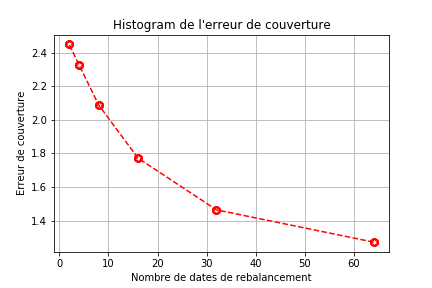
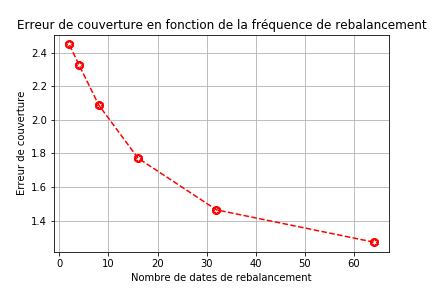
debugging simul_market

Changed region(s): [[0.0301, 0.0625, 0.9931, 0.125]]

diff --git a/Pricer/Hedge.cpp b/Pricer/Hedge.cpp
@@ -22,13 +22,15 @@ void Hedge::PnL(PnlMat *path, int n_time_steps, int H, PnlVect *portfolio_values
 	int M = path->m - 1;
     int step = int(M/H);
 	mc_->mod_->getPast(past, path, 0, n_time_steps, T); // filling the past matrix with the discrete instants preceding t and t spots
-	mc_->price_and_delta(past, 0, prix, ic_prix, delta_prev, ic_delta);
+	mc_->price(prix, ic_prix);
+	mc_->delta(past, 0, delta_prev, ic_delta);
 	pnl_vect_set(option_prices, 0, prix);
 	pnl_vect_set(portfolio_values, 0, prix);
 	for (int i = 1; i < H; i++)
 	{
 		path_index = i * step;
 		t = i * T / H;
+		std::cout << "delta "<< GET(delta_prev,0) << std::endl;
 		delta_prev = rebalance(path, path_index, i, t, n_time_steps, H, T, option_prices, portfolio_values, delta_prev);
     }
 
@@ -50,53 +52,6 @@ void Hedge::PnL(PnlMat *path, int n_time_steps, int H, PnlVect *portfolio_values
 	pnl_vect_free(&spots);
 }
 
-void Hedge::PnL(PnlMat *path, int n_time_steps, double H, PnlVect *portfolio_values, PnlVect* option_prices, double& error) {
-	int size = mc_->opt_->size_;
-	double r = mc_->mod_->r_;
-	double T = mc_->opt_->T_;
-	double prix = 0;
-	double ic_prix = 0;
-	pnl_vect_resize(portfolio_values, H + 1);
-	pnl_vect_resize(option_prices, H + 1);
-	PnlMat *past = pnl_mat_create(1, 1);;
-	PnlVect *delta_prev = pnl_vect_create_from_scalar(size, 0);
-	PnlVect *ic_delta = pnl_vect_create(size);
-	int path_index = 0;
-	int hedging_index;
-	double t = 0;
-	int M = path->m - 1;
-	int step = int(M / H);
-	mc_->mod_->getPast(past, path, 0, n_time_steps, T); // filling the past matrix with the discrete instants preceding t and t spots
-	mc_->price_and_delta(past, 0, prix, ic_prix, delta_prev, ic_delta);
-	pnl_vect_set(option_prices, 0, prix);
-	pnl_vect_set(portfolio_values, 0, prix);
-	for (int i = 1; i < H; i++)
-	{
-		path_index = i * step;
-		t = i * T / H;
-		delta_prev = rebalance(path, path_index, i, t, n_time_steps, H, T, option_prices, portfolio_values, delta_prev);
-	}
-
-	pnl_vect_set(option_prices, H, mc_->opt_->payoff(path));
-	PnlVect * prev_spots = pnl_vect_create(size);
-	PnlVect * spots = pnl_vect_create(size);
-	pnl_mat_get_row(prev_spots, path, M - M / H);
-	double riskless_part = pnl_vect_get(portfolio_values, H - 1) - pnl_vect_scalar_prod(delta_prev, prev_spots) * exp(r * T / H);
-	// (V_{i-1} - delta_{i-1} * S_{i-1}) * e^(t_i - t_{i-1})
-	pnl_mat_get_row(spots, path, M);
-	double risky_part = pnl_vect_scalar_prod(delta_prev, spots);
-	double portfolio_price = risky_part + riskless_part;
-	pnl_vect_set(portfolio_values, H, portfolio_price);
-	error = pnl_vect_get(portfolio_values, H) - pnl_vect_get(option_prices, H);
-	pnl_mat_free(&past);
-	pnl_vect_free(&delta_prev);
-	pnl_vect_free(&ic_delta);
-	pnl_vect_free(&prev_spots);
-	pnl_vect_free(&spots);
-}
-
-
-
 void Hedge::PnL(PnlMat *path, double N, PnlVect *portfolio_values, PnlVect* option_prices, double& error, double ic0) {
 	int size = mc_->opt_->size_;
 	double r = mc_->mod_->r_;
@@ -105,8 +60,8 @@ void Hedge::PnL(PnlMat *path, double N, PnlVect *portfolio_values, PnlVect* opti
 	double prix;
 	double ic_prix;
 	double capitalised_t_i;
-	PnlMat *past = pnl_mat_create(1,1);
-	PnlVect *spots_at_t = pnl_vect_create(1);
+	PnlMat *past;
+	PnlVect *spots_at_t = pnl_vect_create(size);
 	PnlVect *delta = pnl_vect_create_from_scalar(size, 0);
 	PnlVect *delta_prev = pnl_vect_create_from_scalar(size, 0);
 	PnlVect *delta_difference = pnl_vect_create_from_scalar(size, 0);
@@ -118,7 +73,15 @@ void Hedge::PnL(PnlMat *path, double N, PnlVect *portfolio_values, PnlVect* opti
 
 	for (int t = 0; t <= N - 1; t++) {
 
-		mc_->mod_->getPast(past, path, t * T/(N-1), N - 1, T);
+		past = pnl_mat_create(t + 1, size);
+
+		spots_at_t = pnl_vect_create(size);
+		pnl_mat_get_row(spots_at_t, path, t * step); //get spots at t*H/(N-1)
+		//fill past with appropriate market values
+		for (int factor = 0; factor <= t; factor++) {
+			pnl_mat_get_row(tmpVect, path, factor * H / (N - 1));
+			pnl_mat_set_row(past, tmpVect, factor);
+		}
 		mc_->price_and_delta(past, t * T / (N - 1), prix, ic_prix, delta, ic_delta);
 		pnl_vect_set(option_prices, t *step, prix);
 		if (t == 0) {
@@ -142,6 +105,7 @@ void Hedge::PnL(PnlMat *path, double N, PnlVect *portfolio_values, PnlVect* opti
 			pnl_mat_get_row(spots_at_t, path, t * step + i); //get spots at t*H/(N-1) + i
 
 			if (i == 1) {
+				pnl_mat_free(&past);
 				past = pnl_mat_create(t + 2, size);
 				//start filling past with market data
 				for (int factor = 0; factor <= t; factor++) {
@@ -170,8 +134,9 @@ void Hedge::PnL(PnlMat *path, double N, PnlVect *portfolio_values, PnlVect* opti
 	}
 
 
-	error = pnl_vect_get(risk_free_part, H) + pnl_vect_scalar_prod(delta, spots_at_t) - mc_->opt_->payoff(past);
+	error = pnl_vect_get(risk_free_part, H) + pnl_vect_scalar_prod(delta, spots_at_t) - mc_->opt_->payoff(path);
 }
+
 
 
 PnlVect* Hedge::rebalance(PnlMat* path, int path_index, int hedging_index, double t, int n_time_steps, int H, double T, PnlVect* option_prices, PnlVect* portfolio_values, PnlVect *delta_prev)

diff --git a/PricerValidation/CallValidation.cpp b/PricerValidation/CallValidation.cpp
@@ -9,7 +9,7 @@ void validate_call(PnlRng* rng) {
 	PnlVect *spot = pnl_vect_create_from_scalar(1, spot_);
 	PnlVect *sigma = pnl_vect_create_from_scalar(1, sigma_);
 	PnlVect *trend = pnl_vect_create_from_scalar(1, r);
-	double T = 0.1;
+	double T = 1.0;
 	double strike = 100;
 	BlackScholesModel* model = new BlackScholesModel(1, r, 0, sigma, spot, trend);
 	int n_time_steps = 1;
@@ -21,7 +21,7 @@ void validate_call(PnlRng* rng) {
 	double gamma = -1.0 / 4.0;
 	double epsilon_n = epsilon * pow(n_samples, -gamma);
 	MonteCarlo* mc = new MonteCarlo(model, call, rng, T / n_time_steps, n_samples, epsilon_n);
-	int M = 64;
+	int M = 365;
 	int H = M;
 	int n_scenarios = 100;
 	PnlMat* simulated_path = pnl_mat_create(1, 1);
@@ -95,12 +95,14 @@ void validate_delta_call(PnlMat* simulated_path, MonteCarlo* mc, BlackScholesMod
 	int count = 0;
 	int M = simulated_path->m - 1;
 	myfile << " Validation delta " << std::endl;
+	pnl_mat_print(simulated_path);  std::cout << std::endl;
 	for (double i = 0.0; i < (double)M; i++)
 	{
 		t = T * i / (double)M;
 		model->getPast(past, simulated_path, t, n_time_steps, T);
 		spot_at_t = MGET(simulated_path, (int)i, 0);
 		delta_ferme = call->delta(t, spot_at_t, r, sigma_, T, strike);
+		pnl_mat_print(past); std::cout << std::endl;
 		mc->delta(past, t, delta, ic_delta);
 		delta_ = pnl_vect_get(delta, 0);
 		ic_delta_ = pnl_vect_get(ic_delta, 0);
@@ -142,10 +144,21 @@ void validate_hedging_frequency_call(MonteCarlo* mc, BlackScholesModel* model, P
 	myfile.open("../Validation/variation_frequence_call.txt");
 	PnlVect* option_values = pnl_vect_create(1);
 	PnlVect* portfolio_values = pnl_vect_create(1);
-	for (int H = M; H >= 2; H /= 2) {
-		hedge.PnL(simulated_path, n_time_steps, H, portfolio_values, option_values, error);
-		myfile << H << ";" << error << std::endl;
-	}
+	int H = M;
+	pnl_mat_print(simulated_path);
+	std::cout << std::endl;
+	hedge.PnL(simulated_path, n_time_steps, H, portfolio_values, option_values, error);
+	double ic0 = 0;
+	//hedge.PnL(simulated_path, n_time_steps+1, portfolio_values, option_values, error, ic0);
+	PnlMat* comparaison = pnl_mat_create(H + 1, 2);
+	pnl_mat_set_col(comparaison, portfolio_values, 0);
+	pnl_mat_set_col(comparaison, option_values, 1);
+	pnl_mat_print(comparaison);
+
+	//for (int H = M; H >= 2; H /= 2) {
+	//	hedge.PnL(simulated_path, n_time_steps, H, portfolio_values, option_values, error);
+	//	myfile << H << ";" << error << std::endl;
+	//}
 	myfile.close();
 	pnl_mat_free(&simulated_path);
 	pnl_mat_free(&past);

diff --git a/Pricer/MonteCarlo.cpp b/Pricer/MonteCarlo.cpp
@@ -5,6 +5,7 @@
 #include "MonteCarlo.hpp"
 #include <cmath>
 #include <iostream>
+#include <typeinfo>
 
 MonteCarlo::~MonteCarlo() {
     delete mod_;
@@ -35,6 +36,12 @@ void MonteCarlo::price(double &prix, double &ic) {
 }
 
 void MonteCarlo::price(const PnlMat *past, double t, double &prix, double &ic) {
+	if (opt_->type_ == call) {
+		VanillaCall* call = dynamic_cast<VanillaCall*> (opt_);
+		double spot = MGET(past, past->m - 1, 0);
+		prix = call->price(t, spot, mod_->r_, GET(mod_->sigma_,0), opt_->T_, call->strike_);
+		return;
+	}
 
     PnlMat* path =  pnl_mat_create (opt_->nbTimeSteps_ + 1, opt_->size_);
     double payoffs_squared = 0;
@@ -56,6 +63,14 @@ void MonteCarlo::price(const PnlMat *past, double t, double &prix, double &ic) {
 
 
 void MonteCarlo::delta(const PnlMat *past, double t, PnlVect *delta, PnlVect *ic){
+	if (opt_->type_ == call) {
+		VanillaCall* call = dynamic_cast<VanillaCall*> (opt_);
+		double spot = MGET(past, past->m - 1, 0);
+		double delta_ = call->delta(t, spot, mod_->r_, GET(mod_->sigma_, 0), opt_->T_, call->strike_);
+		pnl_vect_set(delta, 0, delta_);
+		return;
+	}
+
 	PnlMat* path =  pnl_mat_create (opt_->nbTimeSteps_ + 1, opt_->size_); //creation path, matrice ou on simule
     double timestep = opt_->T_/opt_->nbTimeSteps_; //pas de discretisation
     PnlMat* shifted_pathp =  pnl_mat_create (opt_->nbTimeSteps_ + 1, opt_->size_);

diff --git a/Pricer/BlackScholesModel.cpp b/Pricer/BlackScholesModel.cpp
@@ -209,9 +209,9 @@ void BlackScholesModel::simul_market(PnlMat *path, double T, int M, PnlRng *rng)
 		pnl_mat_get_row(Ld, corr, d);
 		for (int i = 1; i < M+1; i++) {
 			pnl_mat_get_row(Gi, G, i - 1);
-			expo = pnl_expm1((GET(trend_, d) - pnl_pow_i(GET(sigma_, d), 2) / 2)  * i * timeSpan +
-				GET(sigma_, d) * sqrt(timeSpan) * pnl_vect_scalar_prod(Ld, Gi)) + 1;
-			pnl_mat_set(path, i, d, pnl_mat_get(path, 0, d) * expo);
+			expo = exp((GET(trend_, d) - pnl_pow_i(GET(sigma_, d), 2) / 2)  * timeSpan +
+				GET(sigma_, d) * sqrt(timeSpan) * pnl_vect_scalar_prod(Ld, Gi));
+			pnl_mat_set(path, i, d, pnl_mat_get(path, i-1, d) * expo);
 		}
 	}
 	pnl_mat_free(&G);

diff --git a/Pricer/Hedge.hpp b/Pricer/Hedge.hpp
@@ -32,8 +32,6 @@ public:              /// pointeur vers l'estimateur de monte carlo
      */
     void PnL(PnlMat *path, int n_time_steps, int H, PnlVect *portfolio_values, PnlVect* option_prices, double& error);
 
-	void PnL(PnlMat * path, int n_time_steps, double hedge_freq, PnlVect * portfolio_values, PnlVect * option_prices, double & error);
-
 	void PnL(PnlMat * path, double N, PnlVect * portfolio_values, PnlVect * option_prices, double & error, double ic0);
 
 	PnlVect * rebalance(PnlMat* path, int path_index, int hedging_index, double t, int N, int H, double T, PnlVect* option_prices, PnlVect* portfolio_values, PnlVect *delta_prev);

diff --git a/Pricer/Option.hpp b/Pricer/Option.hpp
@@ -4,13 +4,17 @@
 #include "pnl/pnl_matrix.h"
 #include "pnl/pnl_mathtools.h"
 
+enum optionType { call, kanji };
+
 /// \brief Classe Option abstraite
 class Option
 {
 public:  /// maturité
     double T_;     /// nombre de pas de temps de discrétisation
     int nbTimeSteps_;  /// dimension du modèle, redondant avec BlackScholesModel::size_
-    int size_;
+    int size_; /// type de l'option
+	optionType type_;
+
 
     /**
      * Calcule la valeur du payoff sur la trajectoire
@@ -21,6 +25,7 @@ public:  /// maturité
      * @return phi(trajectoire)
      */
     virtual double payoff(const PnlMat *path) = 0;
+
 };
 
 

diff --git a/Validation/validation_script.py b/Validation/validation_script.py
@@ -53,7 +53,7 @@ def plot_error_H():
     plt.plot(x, ysmoothed, '--r', marker=cut_star, markersize=8 )
     plt.ylabel('Erreur de couverture')
     plt.xlabel('Nombre de dates de rebalancement')
-    plt.title("Histogram de l'erreur de couverture")
+    plt.title("Erreur de couverture en fonction de la fréquence de rebalancement")
     plt.grid(True)
     plt.savefig("hedging_error_f(H)")
 

diff --git a/PricerValidation/Validation.cpp b/PricerValidation/Validation.cpp
@@ -6,8 +6,8 @@ int main() {
 	// initializing the random number generator 
 	PnlRng *rng = pnl_rng_create(PNL_RNG_MERSENNE);
 	pnl_rng_sseed(rng, time(NULL));
-	//validate_call(rng);
-	validate_kanji(rng);
+	validate_call(rng);
+	//validate_kanji(rng);
 	//validate_hedging();
 	return 0;
 }

diff --git a/Pricer/MonteCarlo.hpp b/Pricer/MonteCarlo.hpp
@@ -1,6 +1,7 @@
 #pragma once
 
 #include "Option.hpp"
+#include "VanillaCall.hpp"
 #include "BlackScholesModel.hpp"
 #include "pnl/pnl_random.h"
 
